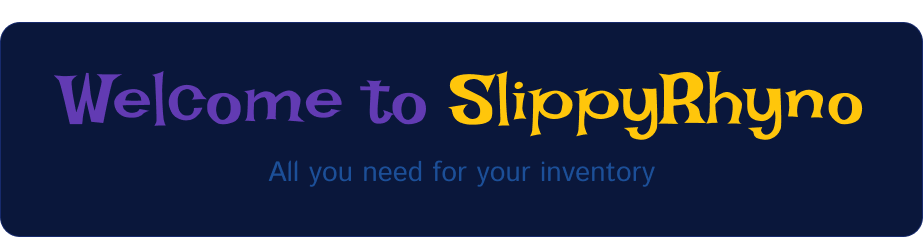
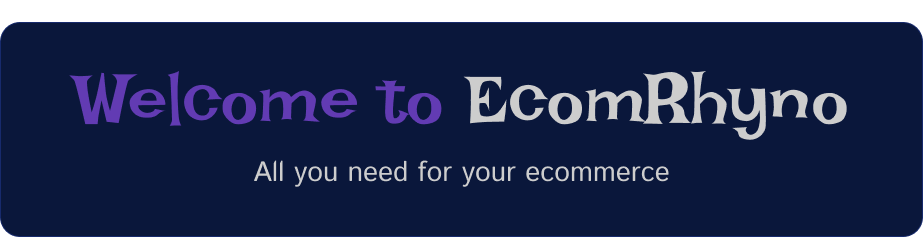
Summary

Changed region(s): [[0.0607, 0.2954, 0.9404, 0.5907], [0.273, 0.6793, 0.7281, 0.7975]]

diff --git a/app/page.tsx b/app/page.tsx
@@ -5,6 +5,7 @@ import { useRouter } from "next/navigation";
 import { createClient } from "@/utils/supabase/client";
 import Image from "next/image";
 import Link from "next/link";
+import { BorderBeam } from "@/components/ui/border-beam";
 
 export default function Example() {
   const [isLoggedIn, setIsLoggedIn] = useState(false);
@@ -32,14 +33,14 @@ export default function Example() {
   return (
     <section className="bg-[#111D36]  bg-[url('/images/1691055810.png')] bg-center bg-cover">
       <div className="min-h-screen mx-auto max-w-7xl px-4 sm:px-6 lg:px-8 relative text-center">
-        <div className="pt-60 mb-30 max-w-3xl mx-auto">
+        <div className="pt-40 mb-30 max-w-3xl mx-auto">
           <Image src="/images/Group.png" alt="Logo" width={900} height={600} />
         </div>
 
         <Link
           href="/dashboard"
           onClick={handleClick}
-          className="mt-20 cursor-pointer w-full md:w-auto mb-14 inline-flex items-center justify-center py-2 px-6 text-base text-center text-white rounded-full bg-[#111d36] shadow-xs hover:bg-[#374C69]/90 transition-all duration-500"
+          className="mt-10  cursor-pointer w-full md:w-auto mb-20 inline-flex items-center justify-center py-2 px-6 text-base text-center text-white rounded-full bg-[#111d36] shadow-xs hover:bg-[#374C69]/90 transition-all duration-500"
         >
           Inloggen
           <svg
@@ -59,13 +60,20 @@ export default function Example() {
             />
           </svg>
         </Link>
-        <div className="absolute bottom-0 inset-x-0 flex justify-center">
-          <Image
-            src="/images/front_bg.png"
-            alt="Dashboard image"
-            width={1000}
-            height={1000}
-          />
+        <div className="absolute bottom-0 left-32">
+          <div className="relative flex w-full flex-col items-center justify-center overflow-hidden rounded-lg  md:shadow-xl">
+            <span className="pointer-events-none whitespace-pre-wrap bg-gradient-to-b from-black to-gray-300/80 bg-clip-text text-center text-8xl font-semibold leading-none text-transparent dark:from-white dark:to-slate-900/10">
+              <div className="w-full h-full">
+                <Image
+                  src="/images/front_bg.png"
+                  alt="Dashboard image"
+                  width={1000}
+                  height={1000}
+                />
+              </div>
+            </span>
+            <BorderBeam size={300} duration={12} delay={9} />
+          </div>
         </div>
       </div>
     </section>

diff --git a/components/ui/border-beam.tsx b/components/ui/border-beam.tsx
@@ -1,0 +1,49 @@
+import { cn } from "@/lib/utils";
+
+interface BorderBeamProps {
+  className?: string;
+  size?: number;
+  duration?: number;
+  borderWidth?: number;
+  anchor?: number;
+  colorFrom?: string;
+  colorTo?: string;
+  delay?: number;
+}
+
+export const BorderBeam = ({
+  className,
+  size = 200,
+  duration = 15,
+  anchor = 90,
+  borderWidth = 1.5,
+  colorFrom = "#ffaa40",
+  colorTo = "#9c40ff",
+  delay = 0,
+}: BorderBeamProps) => {
+  return (
+    <div
+      style={
+        {
+          "--size": size,
+          "--duration": duration,
+          "--anchor": anchor,
+          "--border-width": borderWidth,
+          "--color-from": colorFrom,
+          "--color-to": colorTo,
+          "--delay": `-${delay}s`,
+        } as React.CSSProperties
+      }
+      className={cn(
+        "pointer-events-none absolute inset-0 rounded-[inherit] [border:calc(var(--border-width)*1px)_solid_transparent]",
+
+        // mask styles
+        "![mask-clip:padding-box,border-box] ![mask-composite:intersect] [mask:linear-gradient(transparent,transparent),linear-gradient(white,white)]",
+
+        // pseudo styles
+        "after:absolute after:aspect-square after:w-[calc(var(--size)*1px)] after:animate-border-beam after:[animation-delay:var(--delay)] after:[background:linear-gradient(to_left,var(--color-from),var(--color-to),transparent)] after:[offset-anchor:calc(var(--anchor)*1%)_50%] after:[offset-path:rect(0_auto_auto_0_round_calc(var(--size)*1px))]",
+        className,
+      )}
+    />
+  );
+};

diff --git a/app/globals.css b/app/globals.css
@@ -2,6 +2,83 @@
 @tailwind components;
 @tailwind utilities;
 
+.card {
+  background: #191c29;
+  width: var(--card-width);
+  height: var(--card-height);
+  padding: 3px;
+  position: relative;
+  border-radius: 6px;
+  justify-content: center;
+  align-items: center;
+  text-align: center;
+  display: flex;
+  font-size: 1.5em;
+  color: rgb(88 199 250 / 0%);
+  cursor: pointer;
+  font-family: cursive;
+}
+
+.card:hover {
+  color: rgb(88 199 250 / 100%);
+  transition: color 1s;
+}
+.card:hover:before,
+.card:hover:after {
+  animation: none;
+  opacity: 0;
+}
+
+.card::before {
+  content: "";
+  width: 104%;
+  height: 102%;
+  border-radius: 8px;
+  background-image: linear-gradient(
+    var(--rotate),
+    #5ddcff,
+    #3c67e3 43%,
+    #4e00c2
+  );
+  position: absolute;
+  z-index: -1;
+  top: -1%;
+  left: -2%;
+  animation: spin 2.5s linear infinite;
+}
+
+.card::after {
+  position: absolute;
+  content: "";
+  top: calc(var(--card-height) / 6);
+  left: 0;
+  right: 0;
+  z-index: -1;
+  height: 100%;
+  width: 100%;
+  margin: 0 auto;
+  transform: scale(0.8);
+  filter: blur(calc(var(--card-height) / 6));
+  background-image: linear-gradient(
+    var(--rotate),
+    #5ddcff,
+    #3c67e3 43%,
+    #4e00c2
+  );
+  opacity: 1;
+  transition: opacity 0.5s;
+  animation: spin 2.5s linear infinite;
+}
+
+@keyframes spin {
+  0% {
+    --rotate: 0deg;
+  }
+  100% {
+    --rotate: 360deg;
+  }
+}
+
 @layer base {
   :root {
     --background: 0 0% 100%;

diff --git a/components/Sidebar.tsx b/components/Sidebar.tsx
@@ -15,7 +15,7 @@ export const Sidebar = ({ isCollapsed }: { isCollapsed: boolean }) => {
           <Icon name="command" className="w-6 h-6 text-white" />
           {!isCollapsed && (
             <span className="text-2xl font-bold text-white ml-3">
-              Slippy<span className="font-extralight">Rhyno</span>
+              Ecom<span className="font-extralight">Rhyno</span>
             </span>
           )}
         </div>

diff --git a/tailwind.config.js b/tailwind.config.js
@@ -57,6 +57,16 @@ module.exports = {
   			lg: 'var(--radius)',
   			md: 'calc(var(--radius) - 2px)',
   			sm: 'calc(var(--radius) - 4px)'
+  		},
+  		animation: {
+  			'border-beam': 'border-beam calc(var(--duration)*1s) infinite linear'
+  		},
+  		keyframes: {
+  			'border-beam': {
+  				'100%': {
+  					'offset-distance': '100%'
+  				}
+  			}
   		}
   	}
   },
